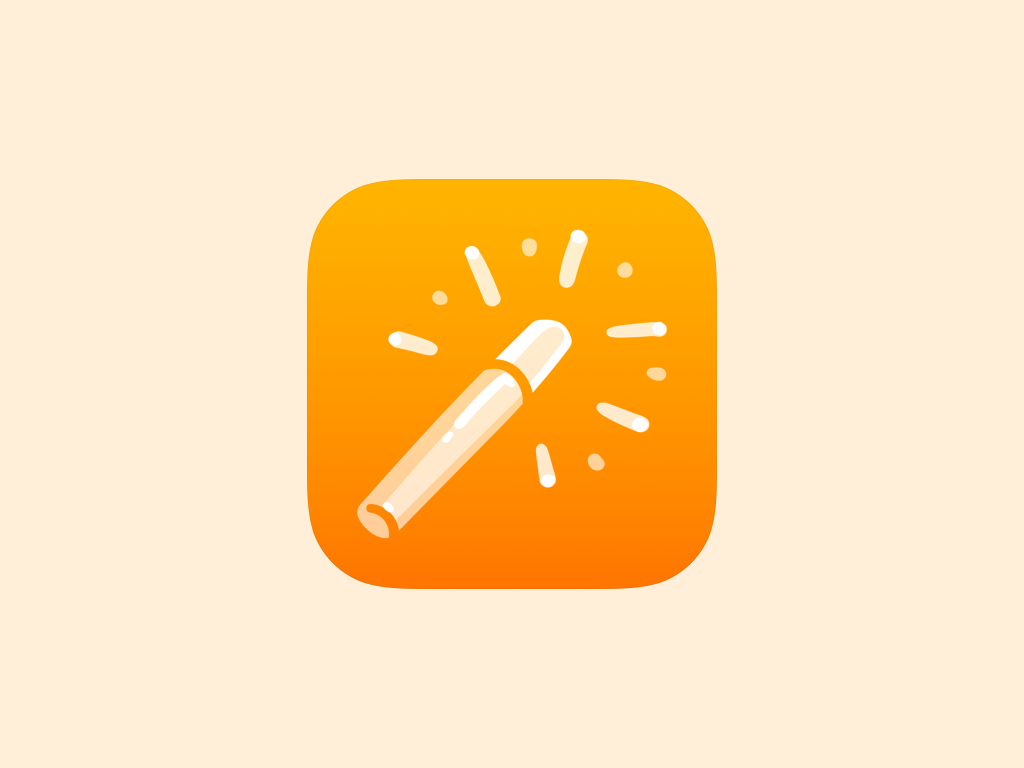
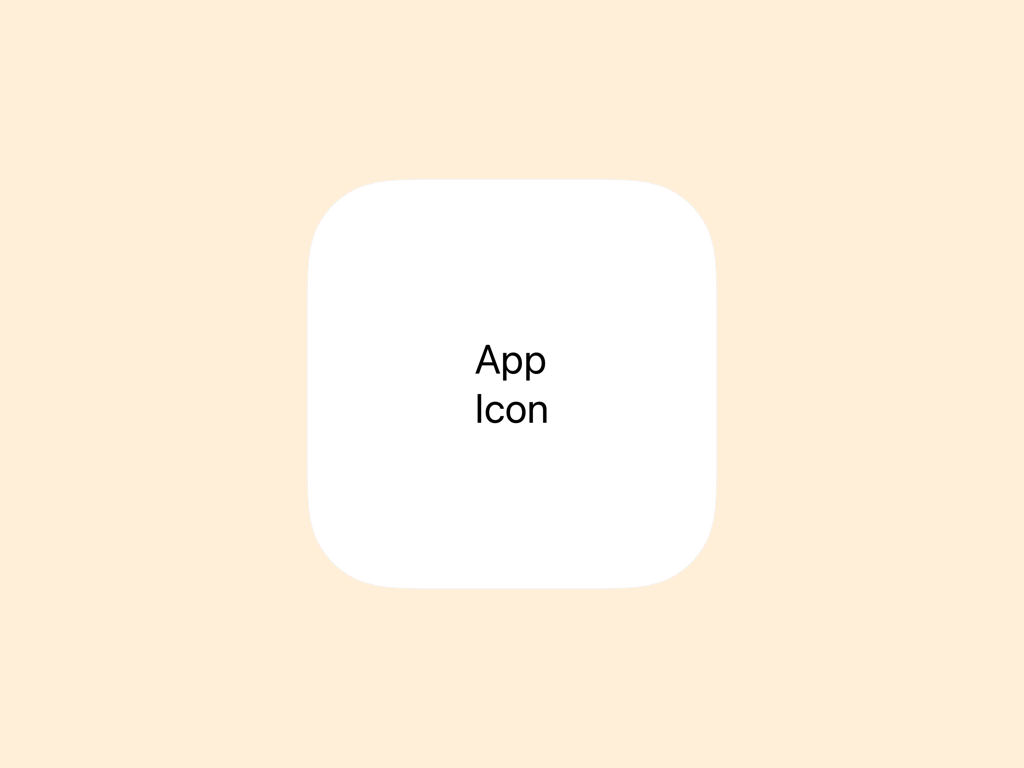
Use assets

Changed region(s): [[0.2812, 0.2188, 0.7188, 0.7812]]

diff --git a/XcodeAndPlaygrounds.swiftpm/Package.swift b/XcodeAndPlaygrounds.swiftpm/Package.swift
@@ -18,7 +18,7 @@ let package = Package(
             targets: ["AppModule"],
             displayVersion: "1.0",
             bundleVersion: "1",
-            appIcon: .placeholder(icon: .magicWand),
+            appIcon: .asset("AppIcon"),
             accentColor: .presetColor(.orange),
             supportedDeviceFamilies: [
                 .pad,
